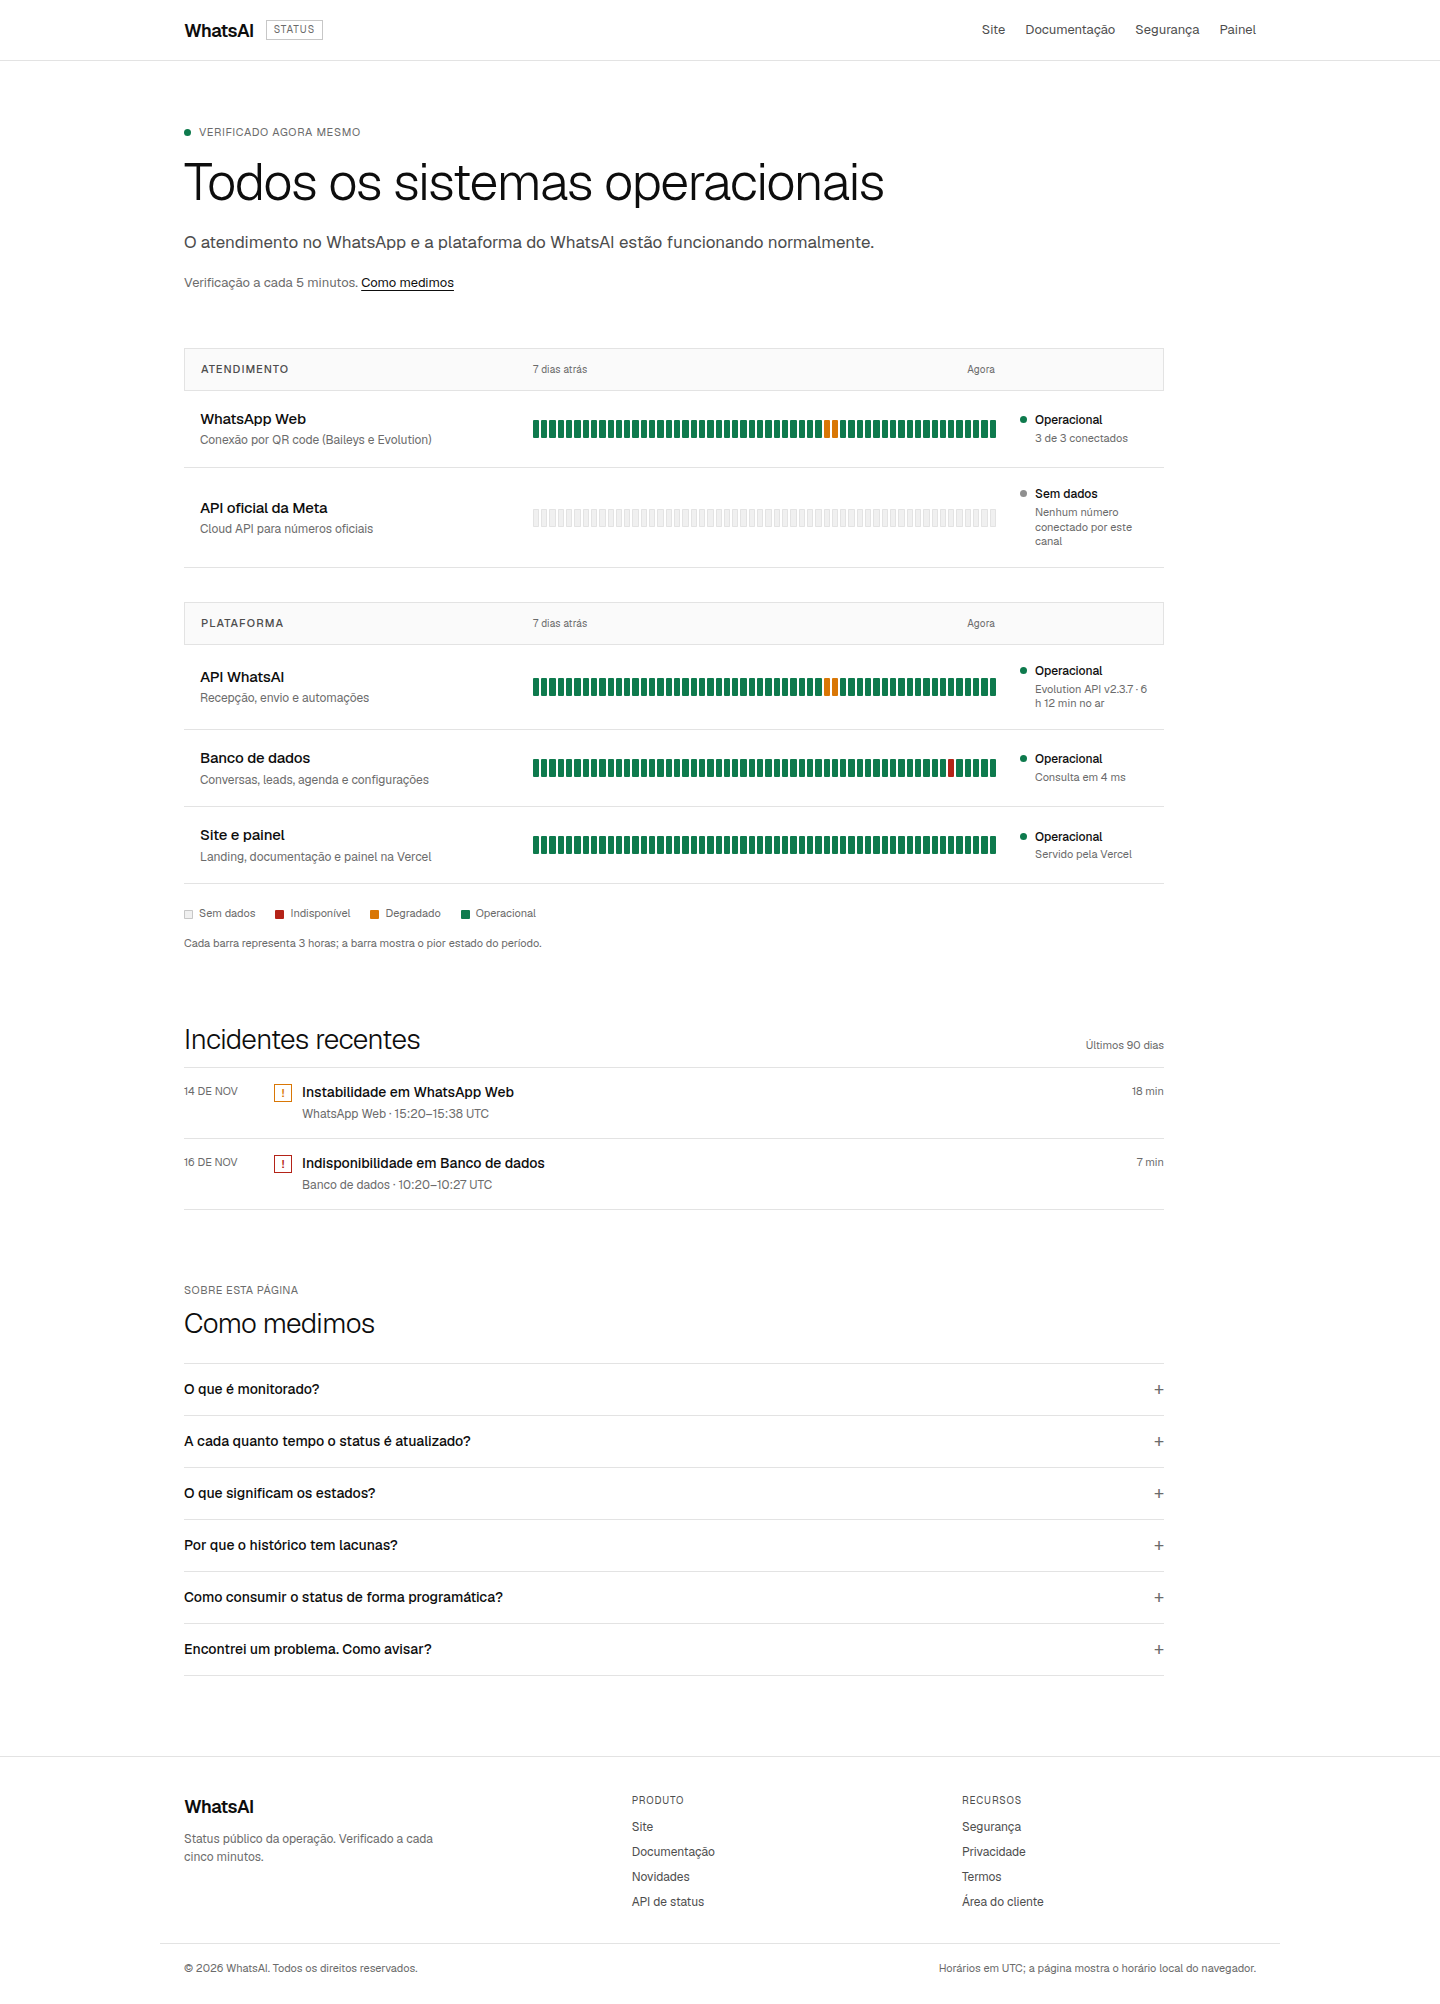
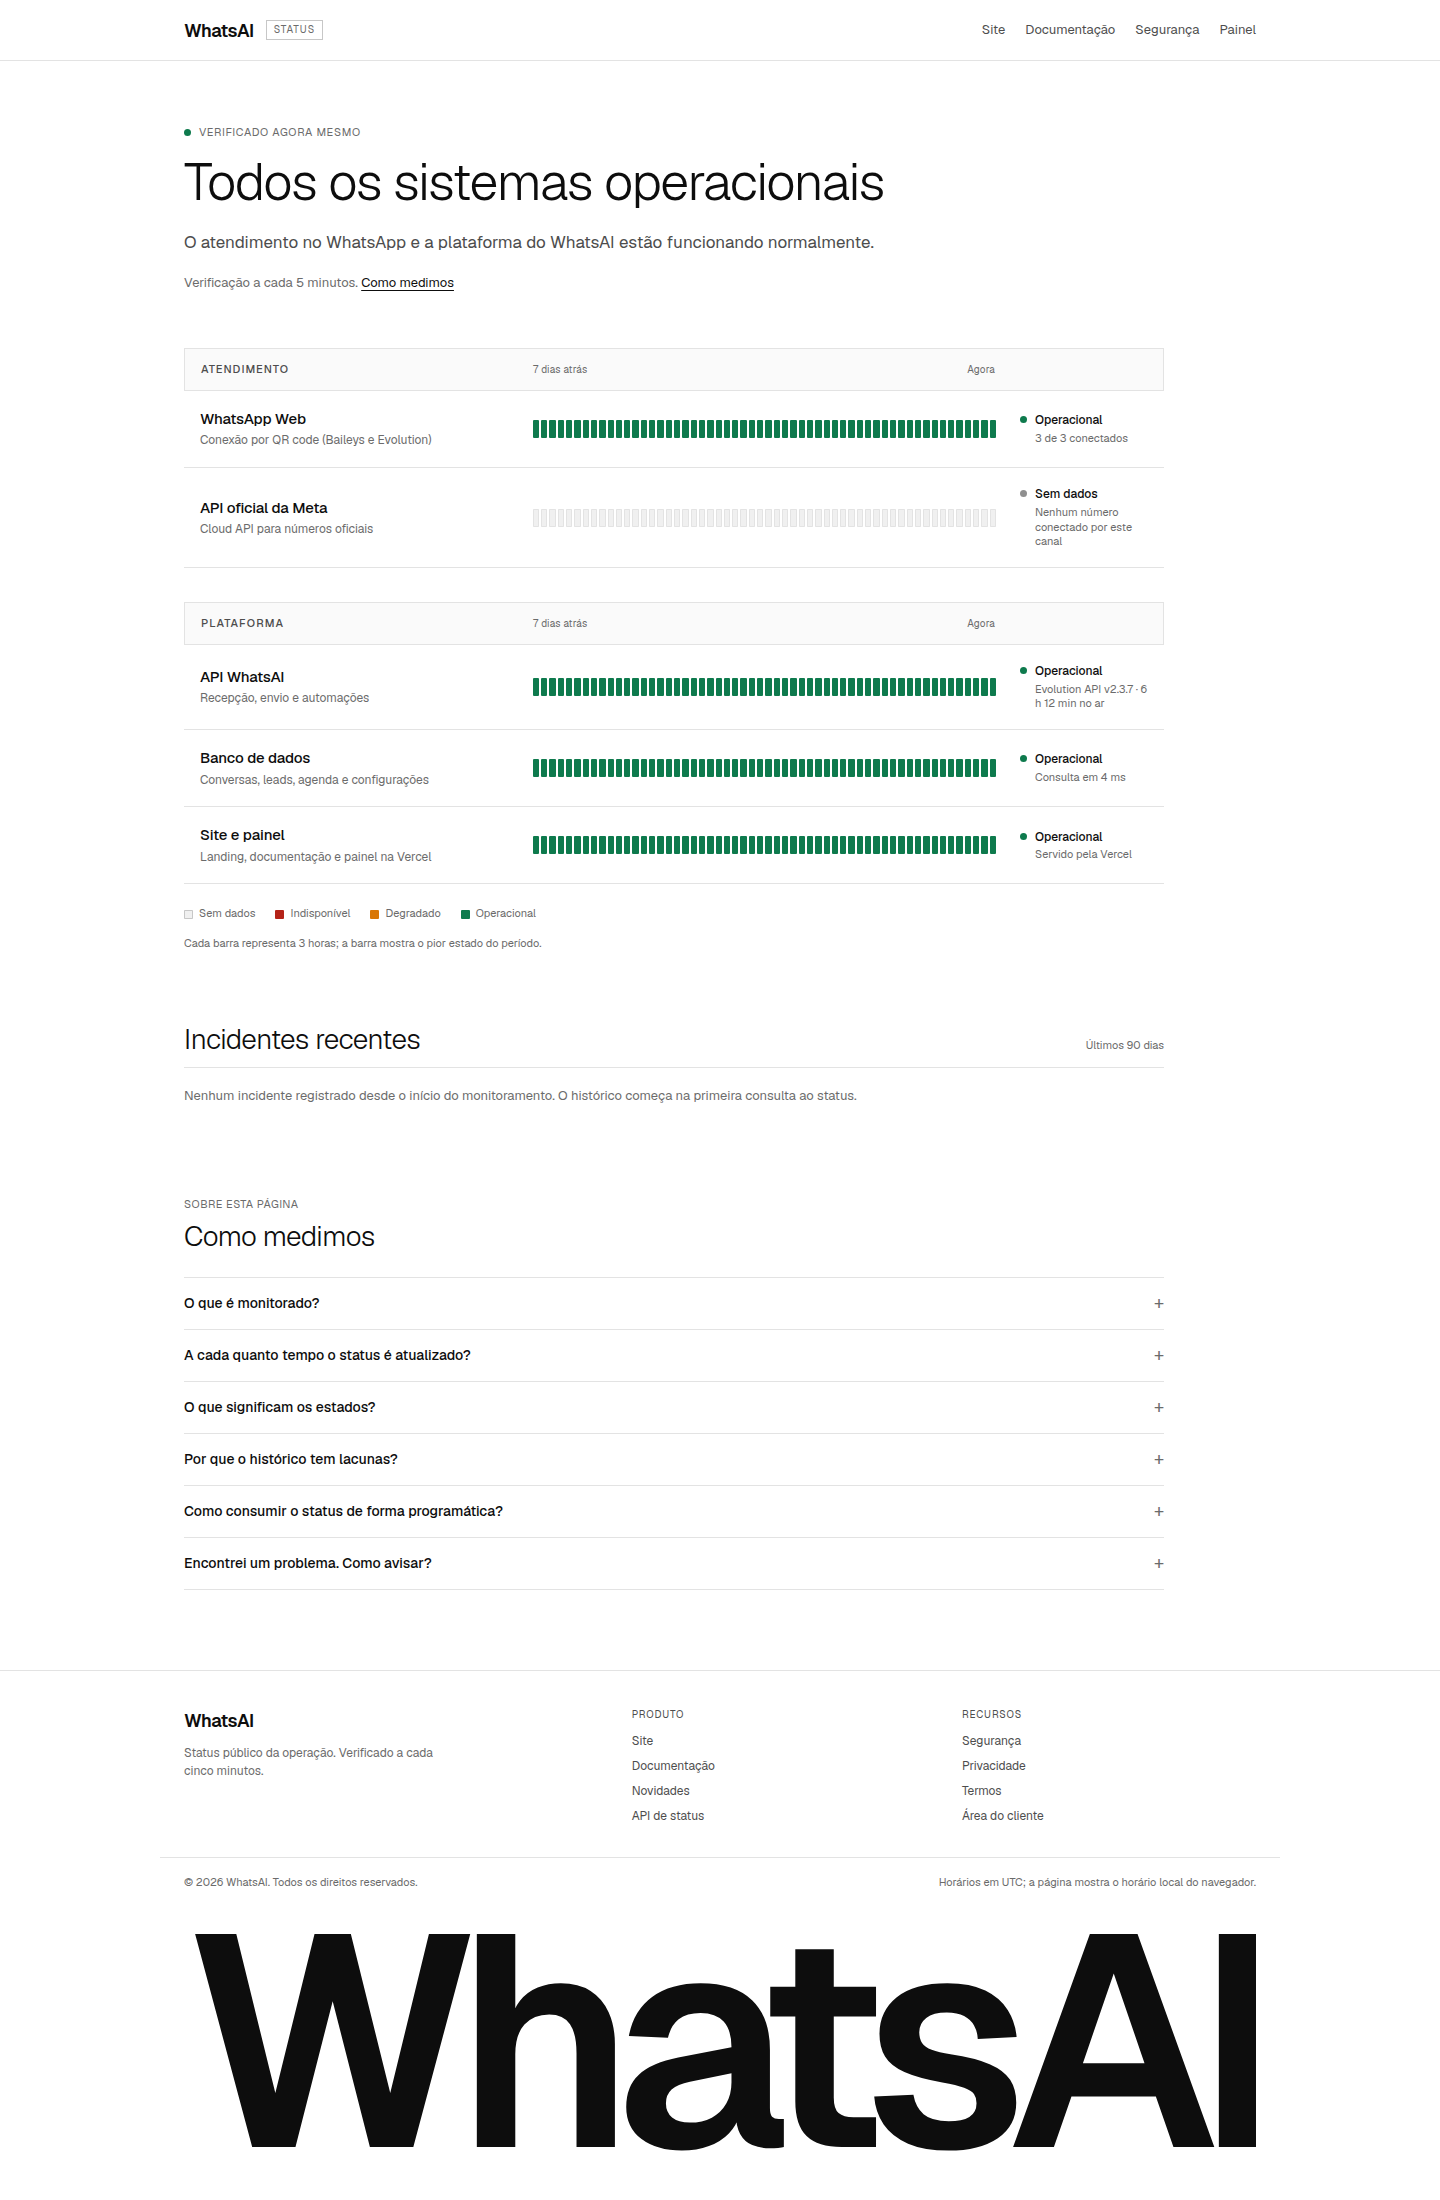
fix(status): usa o wordmark global no rodape e ordena os imports
O rodape do status passa a repetir o titulo grande do site, como landing, Seguranca, Privacidade e Termos. Tambem corrige a ordem dos imports apontada pelo ESLint e atualiza as capturas.

diff --git a/manager/dist/status/index.html b/manager/dist/status/index.html
@@ -21,7 +21,7 @@
     <link rel="preload" href="/assets/fonts/geist-latin-wght-normal.woff2?v=1" as="font" type="font/woff2" crossorigin />
     <link rel="stylesheet" href="/assets/geist.css?v=3" />
     <link rel="stylesheet" href="/assets/tokens.css?v=3" />
-    <link rel="stylesheet" href="/status/status.css?v=1" />
+    <link rel="stylesheet" href="/status/status.css?v=2" />
   </head>
   <body class="st-page">
     <a class="st-skip" href="#conteudo">Pular para o conteúdo</a>
@@ -163,6 +163,9 @@
       <div class="st-wrap st-foot-legal">
         <p>© 2026 WhatsAI. Todos os direitos reservados.</p>
         <p>Horários em UTC; a página mostra o horário local do navegador.</p>
+      </div>
+      <div class="st-wrap">
+        <a class="st-foot-wordmark" href="/" aria-label="WhatsAI, página inicial">WhatsAI</a>
       </div>
     </footer>
 

diff --git a/manager/dist/status/status.css b/manager/dist/status/status.css
@@ -639,6 +639,28 @@ body.st-page {
   margin: 0;
 }
 
+.st-foot-wordmark {
+  display: block;
+  width: 100%;
+  margin-top: clamp(20px, 3vw, 40px);
+  padding-bottom: clamp(12px, 1.6vw, 20px);
+  color: var(--c-text);
+  font-family: var(--font-sans);
+  font-size: clamp(70px, 21vw, 300px);
+  font-weight: 600;
+  letter-spacing: -0.06em;
+  line-height: 0.74;
+  text-align: center;
+  text-decoration: none;
+  white-space: nowrap;
+  overflow: hidden;
+  transition: color 0.15s ease;
+}
+
+.st-foot-wordmark:hover {
+  color: var(--c-text-2);
+}
+
 noscript {
   display: block;
   padding: 16px 24px;

diff --git a/test/unit/public-status.test.ts b/test/unit/public-status.test.ts
@@ -4,9 +4,9 @@ import { describe, test } from 'node:test';
 import type { ProviderView } from '@api/services/observability.shared';
 import {
   normalizeStore,
+  PublicSnapshot,
   PublicStatusService,
   PublicStatusStore,
-  PublicSnapshot,
 } from '@api/services/public-status.core';
 
 const AT = Date.UTC(2026, 10, 16, 12, 0, 0);

diff --git a/readmes/pr/status-publico/README.md b/readmes/pr/status-publico/README.md
@@ -93,7 +93,8 @@ nem OpenAI.
 - A página `manager/dist/observability/` foi removida.
 - O CSP perdeu o hash do script inline que existia só nessa página; restaram os dois hashes do painel e da Área do
   cliente.
-- O link **Status** entrou no rodapé das páginas públicas. O painel não ganhou um link público novo.
+- O link **Status** entrou no rodapé das páginas públicas. O rodapé usa o mesmo wordmark grande do restante do site
+  (landing, Segurança, Privacidade e Termos). O painel não ganhou um link público novo.
 
 ## Arquivos principais
 
